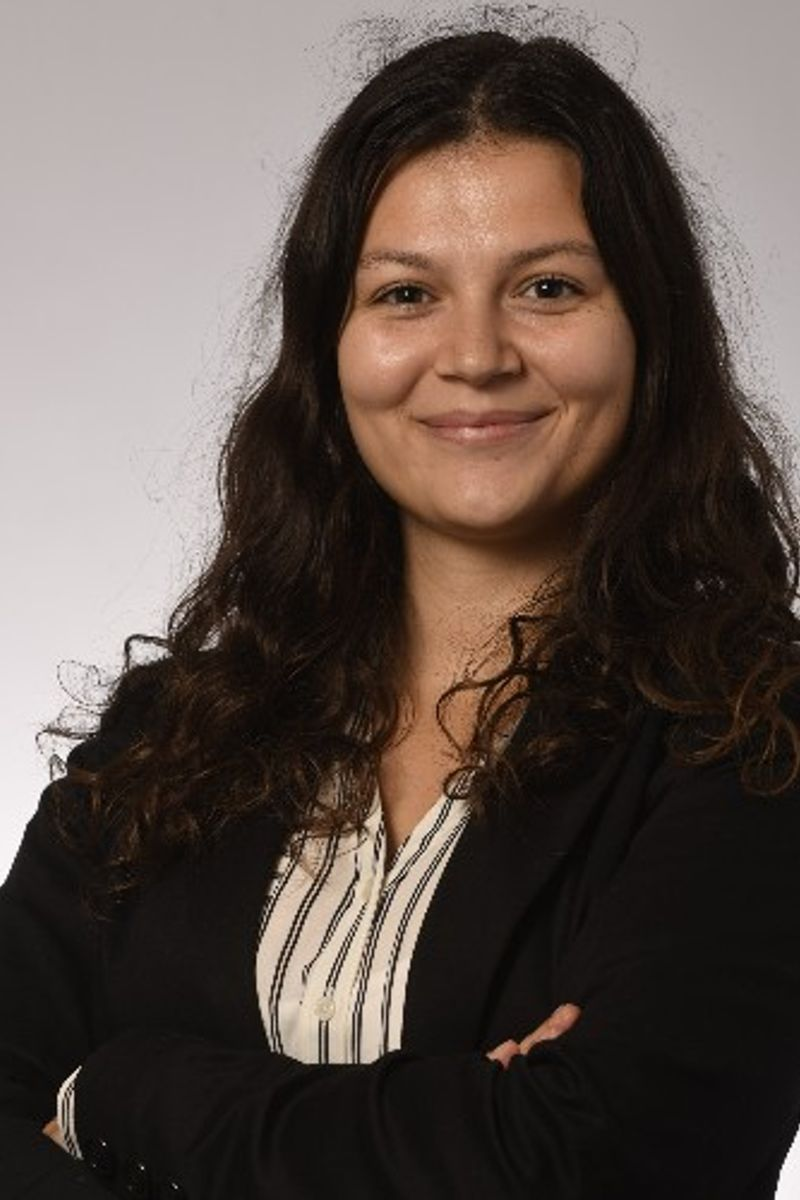
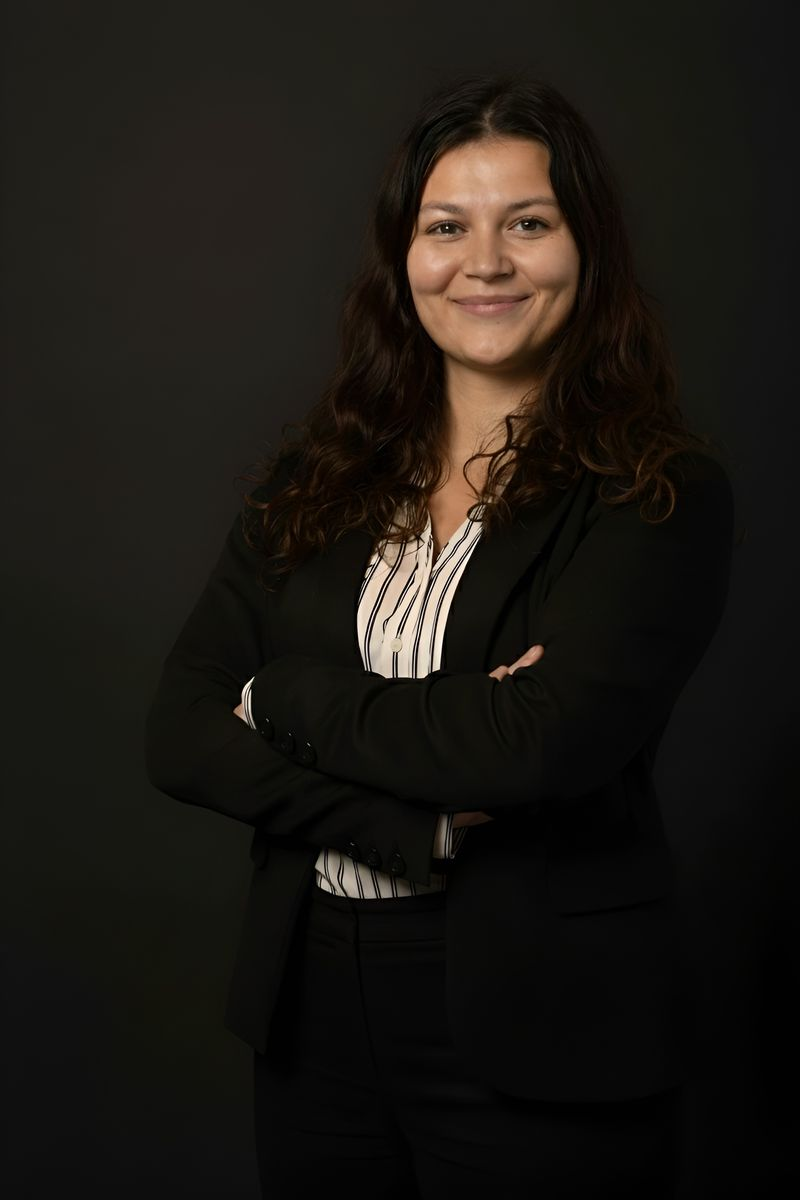
feat: Photos experts mises à jour + toggle langue mobile
- Photos experts actualisées et optimisées (50-100KB)
- Ajout toggle FR/EN en orange dans header mobile (minuscules, discret)
- Texte Contact version condensée avec paragraphes séparés
- Experts: nouvel ordre et vraies photos optimisées
- Desktop et mobile: FR/EN intégralement

diff --git a/src/components/mobile/MobileExperts.tsx b/src/components/mobile/MobileExperts.tsx
@@ -20,17 +20,17 @@ export function MobileExperts() {
 
   // Liste des 12 experts - Nouvel ordre avec vraies photos
   const experts: Expert[] = [
-    {
-      id: 1,
+    { 
+      id: 1, 
       name: 'Sébastien Klein',
       role: locale === 'en' ? 'Project Turnaround Expert' : 'Expert en Redressement de Projets',
       image: '/images/experts-optimized/Sébastien.jpg',
-      description: locale === 'en'
+      description: locale === 'en' 
         ? "For 10 years, he has led complex projects in America, Asia and Europe. Specialized in turnaround of critical situations, his pragmatic approach unlocks strategic issues with impact."
         : "Depuis 10 ans, il pilote des projets complexes en Amérique, Asie et Europe. Spécialisé dans le redressement de situations critiques, son approche pragmatique débloque les enjeux stratégiques."
     },
-    {
-      id: 2,
+    { 
+      id: 2, 
       name: 'Cindy Ehounou',
       role: locale === 'en' ? 'Project Management Expert' : 'Experte en Gestion de Projet',
       image: '/images/experts-optimized/Cindy.jpg',
@@ -38,8 +38,8 @@ export function MobileExperts() {
         ? "From civil engineering, she stands out for her rigor and mastery of planning tools. Her proactive approach optimizes performance. Driven by quality and excellence."
         : "Issue du génie civil, elle se distingue par sa rigueur et sa maîtrise des outils de planification. Son approche proactive optimise la performance. Animée par la qualité et l'excellence."
     },
-    {
-      id: 3,
+    { 
+      id: 3, 
       name: 'Abdesalam Paes',
       role: locale === 'en' ? 'Infrastructure and Governance Expert' : 'Expert en Infrastructures et Gouvernance',
       image: '/images/experts-optimized/Abdesalam.jpg',
@@ -47,8 +47,8 @@ export function MobileExperts() {
         ? "13 years of infrastructure experience. He leads complex projects with vision and clarity. Expert in governance and leadership, he generates coherence and lasting results through foresight."
         : "13 ans d'expérience en infrastructures. Il pilote des projets complexes avec vision et clarté. Expert en gouvernance et leadership, il génère cohérence et résultats durables par son anticipation."
     },
-    {
-      id: 4,
+    { 
+      id: 4, 
       name: 'Daniel Lone',
       role: locale === 'en' ? 'Senior Transformation Consultant' : 'Consultant Senior en Transformation',
       image: '/images/experts-optimized/Daniel.jpg',
@@ -56,8 +56,8 @@ export function MobileExperts() {
         ? "10 years of experience in organizational transformations. Expert in program management, risk and governance, he clarifies complex issues to support decision-making. MBA HEC Montreal distinction."
         : "10 ans d'expérience en transformations organisationnelles. Expert en gestion de programmes, risques et gouvernance, il clarifie les enjeux complexes pour soutenir la décision. MBA HEC Montréal distinction."
     },
-    {
-      id: 5,
+    { 
+      id: 5, 
       name: 'Roxane Toumi',
       role: locale === 'en' ? 'Senior Project Management Consultant' : 'Consultante Senior en Gestion de Projets',
       image: '/images/experts-optimized/Roxane.jpg',
@@ -65,8 +65,8 @@ export function MobileExperts() {
         ? "Engineer passionate about complex industrial projects. PMO and senior consultant, she excels at planning, multi-site coordination and change management. Rigorous and agile."
         : "Ingénieure passionnée par les projets industriels complexes. PMO et consultante senior, elle excelle en planification, coordination multi-sites et conduite du changement. Rigoureuse et agile."
     },
-    {
-      id: 6,
+    { 
+      id: 6, 
       name: 'Sandra Medina',
       role: locale === 'en' ? 'Senior Planning Consultant' : 'Consultante Senior en Planification',
       image: '/images/experts-optimized/Sandra.jpg',
@@ -209,12 +209,12 @@ export function MobileExperts() {
         }
       `}} />
       
-      <section id="experts" style={{
-        width: '100%',
-        margin: '20px 0',
-        padding: '0 4.5%',
-        position: 'relative'
-      }}>
+    <section id="experts" style={{
+      width: '100%',
+      margin: '20px 0',
+      padding: '0 4.5%',
+      position: 'relative'
+    }}>
       {/* Titre */}
       <h2 style={{
         color: '#243768',
@@ -329,44 +329,44 @@ export function MobileExperts() {
                       paddingRight: '4px'
                     }}>
                       {/* Nom en orange - aligné à gauche */}
-                      <div style={{
-                        fontFamily: 'Gotham, sans-serif',
+                    <div style={{
+                      fontFamily: 'Gotham, sans-serif',
                         fontSize: '16px',
-                        fontWeight: 700,
-                        textTransform: 'uppercase',
+                      fontWeight: 700,
+                      textTransform: 'uppercase',
                         lineHeight: '1.2',
                         textAlign: 'left',
                         color: '#F36911',
                         marginBottom: '5px'
-                      }}>
-                        {expert.name}
-                      </div>
-                      
+                    }}>
+                      {expert.name}
+                    </div>
+                    
                       {/* Rôle en orange - aligné à gauche */}
-                      <div style={{
-                        fontFamily: 'Gotham, sans-serif',
+                    <div style={{
+                      fontFamily: 'Gotham, sans-serif',
                         fontSize: '11px',
-                        fontWeight: 700,
-                        textTransform: 'lowercase',
+                      fontWeight: 700,
+                      textTransform: 'lowercase',
                         lineHeight: '1.3',
                         textAlign: 'left',
-                        color: '#F36911',
+                      color: '#F36911',
                         marginBottom: '12px'
-                      }}>
-                        {expert.role}
-                      </div>
-                      
-                      {/* Description */}
-                      <div style={{
-                        fontFamily: 'Gotham, sans-serif',
-                        fontSize: '11px',
-                        fontWeight: 400,
+                    }}>
+                      {expert.role}
+                    </div>
+                    
+                    {/* Description */}
+                    <div style={{
+                      fontFamily: 'Gotham, sans-serif',
+                      fontSize: '11px',
+                      fontWeight: 400,
                         lineHeight: '1.4',
-                        textAlign: 'left',
-                        color: '#FFFFFF',
+                      textAlign: 'left',
+                      color: '#FFFFFF',
                         opacity: 0.95
-                      }}>
-                        {expert.description}
+                    }}>
+                      {expert.description}
                       </div>
                     </div>
                   </div>
@@ -476,7 +476,7 @@ export function MobileExperts() {
           </button>
         </div>
       )}
-      </section>
+    </section>
     </>
   );
 }

diff --git a/src/components/mobile/MobileHeader.tsx b/src/components/mobile/MobileHeader.tsx
@@ -35,30 +35,52 @@ export function MobileHeader() {
         backgroundPosition: 'left center'
       }} />
 
-      {/* Menu hamburger */}
-      <button
-        onClick={() => setIsMenuOpen(!isMenuOpen)}
-        style={{
-          width: '55px', // Zone de clic agrandie
-          height: '55px', // Carré pour meilleur équilibre
-          backgroundColor: 'transparent',
-          border: 'none',
-          cursor: 'pointer',
-          display: 'flex',
-          alignItems: 'center',
-          justifyContent: 'center',
-          padding: '10px'
-        }}
-      >
-        <img 
-          src="/images/burger.svg" 
-          alt="Menu"
+      {/* Container pour toggle langue et burger */}
+      <div style={{
+        display: 'flex',
+        alignItems: 'center',
+        gap: '12px'
+      }}>
+        {/* Toggle langue FR/EN */}
+        <a
+          href={locale === 'en' ? '/mobile' : '/en/mobile'}
           style={{
-            width: '44px', // Grossi de 25% supplémentaires (35 * 1.25 = 43.75 arrondi à 44)
-            height: '44px'
+            color: '#F36911',
+            fontFamily: 'Gotham, sans-serif',
+            fontSize: '16px',
+            fontWeight: 500,
+            textDecoration: 'none',
+            textTransform: 'lowercase'
           }}
-        />
-      </button>
+        >
+          {locale === 'en' ? 'fr' : 'eng'}
+        </a>
+
+        {/* Menu hamburger */}
+        <button
+          onClick={() => setIsMenuOpen(!isMenuOpen)}
+          style={{
+            width: '55px', // Zone de clic agrandie
+            height: '55px', // Carré pour meilleur équilibre
+            backgroundColor: 'transparent',
+            border: 'none',
+            cursor: 'pointer',
+            display: 'flex',
+            alignItems: 'center',
+            justifyContent: 'center',
+            padding: '10px'
+          }}
+        >
+          <img 
+            src="/images/burger.svg" 
+            alt="Menu"
+            style={{
+              width: '44px', // Grossi de 25% supplémentaires (35 * 1.25 = 43.75 arrondi à 44)
+              height: '44px'
+            }}
+          />
+        </button>
+      </div>
 
       {/* Menu mobile ouvert */}
       {isMenuOpen && (

diff --git a/src/lib/dictionaries/fr.ts b/src/lib/dictionaries/fr.ts
@@ -169,7 +169,7 @@ export const fr = {
         modalTitle: 'Usine pharmaceutique 4.0',
         description: 'Expertise en gestion de projets exceptionnels et de crise',
         modalContent: 'Notre capacité à intervenir rapidement sur des projets exceptionnels et inédits nous permet d\'accompagner nos clients face à des défis sans précédent. Grâce aux projets que nous avons menés à bien, nous pouvons vous offrir des solutions en structuration rapide de programmes complexes, mise en place d\'organisation et de modes de pilotage adaptés, et gestion de contraintes logistiques critiques. À titre de référence, nous avons été mobilisés dès décembre 2020 pour contribuer à l\'organisation de la campagne nationale de vaccination COVID-19, incluant la coordination du transport de vaccins à -80° sur l\'ensemble du territoire français en temps record. Le succès de cette mission a conduit notre client à renouveler sa confiance pour une durée de quatre ans comme partenaire privilégié pour les projets hors normes.'
-      }
+    }
     ]
   },
   team: {

diff --git a/src/lib/dictionaries/en.ts b/src/lib/dictionaries/en.ts
@@ -209,7 +209,7 @@ export const en = {
         modalTitle: 'Pharmaceutical Plant 4.0',
         description: 'Expertise in exceptional and crisis project management',
         modalContent: 'Our ability to intervene quickly on exceptional and unprecedented projects allows us to support our clients facing unprecedented challenges. Thanks to the projects we have successfully completed, we can offer you solutions in rapid structuring of complex programs, implementation of adapted organization and management methods, and critical logistics constraint management. As a reference, we were mobilized as early as December 2020 to contribute to the organization of the national COVID-19 vaccination campaign, including coordination of vaccine transport at -80° across the entire French territory in record time. The success of this mission led our client to renew their trust for a four-year period as a preferred partner for exceptional projects.'
-      }
+    }
     ]
   },
   team: {

diff --git a/src/components/mobile/MobileContact.tsx b/src/components/mobile/MobileContact.tsx
@@ -67,8 +67,8 @@ export function MobileContact() {
           lineHeight: '1.5em',
           textAlign: 'left',
           marginBottom: '16px'
-        }}>
-          {locale === 'en' 
+      }}>
+        {locale === 'en' 
             ? <>Strategic vision, field expertise, and lasting results.</>
             : <>Vision stratégique, expertise terrain et résultats durables.</>}
         </p>
@@ -84,7 +84,7 @@ export function MobileContact() {
           {locale === 'en' 
             ? <>Let&apos;s transform your ambitions into concrete outcomes.</>
             : <>Transformons vos ambitions en résultats concrets.</>}
-        </p>
+      </p>
       </div>
 
       {/* Container pour le bouton */}

diff --git a/src/components/sections/ContactSection.tsx b/src/components/sections/ContactSection.tsx
@@ -30,7 +30,7 @@ export function ContactSection() {
           </p>
           
           <p className="text-primary text-[18px] leading-[32px] md:text-[32px] md:leading-[48px]">
-            {locale === 'en' 
+          {locale === 'en' 
               ? <>Let&apos;s transform your ambitions into concrete outcomes.</>
               : <>Transformons vos ambitions en résultats concrets.</>}
           </p>
